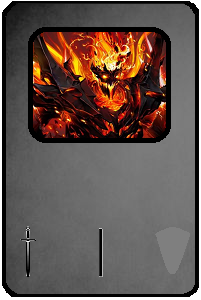
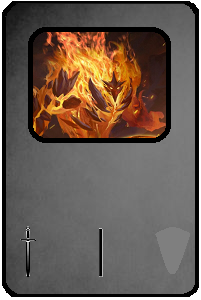
deckbuilder card list is now sorted by cost, then by name fire elemental changed to 3 dmg on end of turn and new art

Changed region(s): [[0.1493, 0.09, 0.8358, 0.48]]

diff --git a/src/Cards/Elemental/FireElementalCard.java b/src/Cards/Elemental/FireElementalCard.java
@@ -23,10 +23,10 @@ public class FireElementalCard extends Card {
         name = "Fire Elemental";
         cardType = CardType.Minion;
         cardPurpose = CardPurpose.VanillaMinion;
-        spellDamage = 5;
-        cardText = "On Summon: \n Deal " + spellDamage + " damage to \n enemy hero.";
+        spellDamage = 3;
+        cardText = "On Turn End: \n Deal " + spellDamage + " Damage to a \n random enemy \n minion";
         sprite = SpriteHandler.fireElementalCard;
-        cost = 6;
+        cost = 8;
         heroClass = HeroClass.Restricted;
         summon = new FireElementalMinion(this);
         intrinsicValue = 4;
@@ -37,14 +37,13 @@ public class FireElementalCard extends Card {
     public void tick() {
         intrinsicValue = 4;
         int damagePotential = 0;
-        for (Minion m : owner.opponent.minions.getStorage()) {
-            if (m == null) {
-                continue;
+        for(Minion m : owner.opponent.minions.getOccupants()){
+            if(m.health<=spellDamage){
+                damagePotential+=AI.AI.getWorth(m);
+            }else{
+                damagePotential+=spellDamage;
             }
-            damagePotential += m.attack;
         }
-        if(damagePotential+spellDamage >= owner.opponent.health){
-        intrinsicValue = 10;
-        }
+        this.intrinsicValue+=damagePotential;
     }
 }

diff --git a/src/GUI/DeckBuilder.java b/src/GUI/DeckBuilder.java
@@ -19,6 +19,7 @@ import java.awt.event.MouseEvent;
 import java.awt.event.MouseListener;
 import java.io.File;
 import java.util.ArrayList;
+import java.util.Comparator;
 import javax.swing.ImageIcon;
 import javax.swing.JButton;
 import javax.swing.JComboBox;
@@ -252,6 +253,7 @@ public class DeckBuilder extends JFrame{
             panel.remove(cl);
         }
         cardLabels.clear();
+        product.deck.sort(new CardOrderComparator()); //sorts based on cost then name
         int i = 0;
         for(Card c : this.product.deck){
             CardLabel cl = new CardLabel(c);
@@ -411,5 +413,25 @@ public class DeckBuilder extends JFrame{
     public void dispose(){
         super.dispose();
         mainBuilder = null;
+    }
+    
+    /**
+     * compares cards first based on cost, then on name
+     */
+    private class CardOrderComparator implements Comparator<Card> {
+
+        @Override
+        public int compare(Card o1, Card o2) {
+            if (o1.cost == o2.cost) {
+                return o1.name.compareTo(o2.name); //if same cost then use alphabetical order
+            } else {
+                if (o1.cost > o2.cost) {
+                    return 1;
+                } else {
+                    return -1;
+                }
+            }
+        }
+
     }
 }

diff --git a/src/Minions/Elemental/FireElementalMinion.java b/src/Minions/Elemental/FireElementalMinion.java
@@ -8,7 +8,10 @@ package Minions.Elemental;
 import Cards.Card;
 import Minions.Minion;
 import Minions.Tribe;
+import Multiplayer.Phantom;
+import cardgame1.Main;
 import cardgame1.SpriteHandler;
+import cardgame1.Sticker;
 
 /**
  *
@@ -21,7 +24,7 @@ public class FireElementalMinion extends Minion {
         this.owner = parent.getOwner();
         attack = 6;
         originalAttack = attack;
-        maxHealth = 4;
+        maxHealth = 6;
         health = maxHealth;
         name = "Fire Elemental";
         this.tribe = Tribe.Elemental;
@@ -29,8 +32,13 @@ public class FireElementalMinion extends Minion {
     }
     
     @Override
-    public void onSummon(){
-        proc();
-        owner.opponent.takeDamage(parent.spellDamage);
+    public void onTurnEnd() {
+        int roll = (int)(Phantom.random.nextDouble()*(owner.opponent.minions.numOccupants()));
+        Minion target = owner.opponent.minions.getOccupants().get(roll);
+        if(target==null)return;
+        Sticker launchEffect = new Sticker(SpriteHandler.blastEffectSmall, this, AI.AI.speed / 3);
+        Sticker targetEffect = new Sticker(SpriteHandler.blastEffectSmall, target, AI.AI.speed / 3);
+        Main.wait(AI.AI.speed / 3);
+        target.takeDamage(parent.spellDamage);
     }
 }

diff --git a/src/Cards/Elemental/SorcererCard.java b/src/Cards/Elemental/SorcererCard.java
@@ -73,13 +73,13 @@ public class SorcererCard extends Card {
             if(m.tribe!=Tribe.Golem)continue;
             switch(m.name){
             case "Molten Golem":
-                intrinsicValue+=3;
+                intrinsicValue+=5;
                 return;
             case "Ice Golem":
-                intrinsicValue+=3;
+                intrinsicValue+=5;
                 return;
             case "Earth Golem":
-                intrinsicValue+=3;
+                intrinsicValue+=5;
                 return;
             default:
                 intrinsicValue+=2;

diff --git a/src/GUI/CardLabel.java b/src/GUI/CardLabel.java
@@ -55,7 +55,6 @@ public class CardLabel extends JLabel{
              public void mousePressed(MouseEvent e) {   
                  if(e.getButton()==1)CardDisplay.display(card); //l;eft click
                 if(e.getButton()==3 && mainBuilder!=null && mainBuilder.isEnabled()){
-                    System.out.println("test");
                     mainBuilder.product.deck.remove(mainBuilder.cardLabels.indexOf(me));
                     mainBuilder.updateList();
                 }//right click
